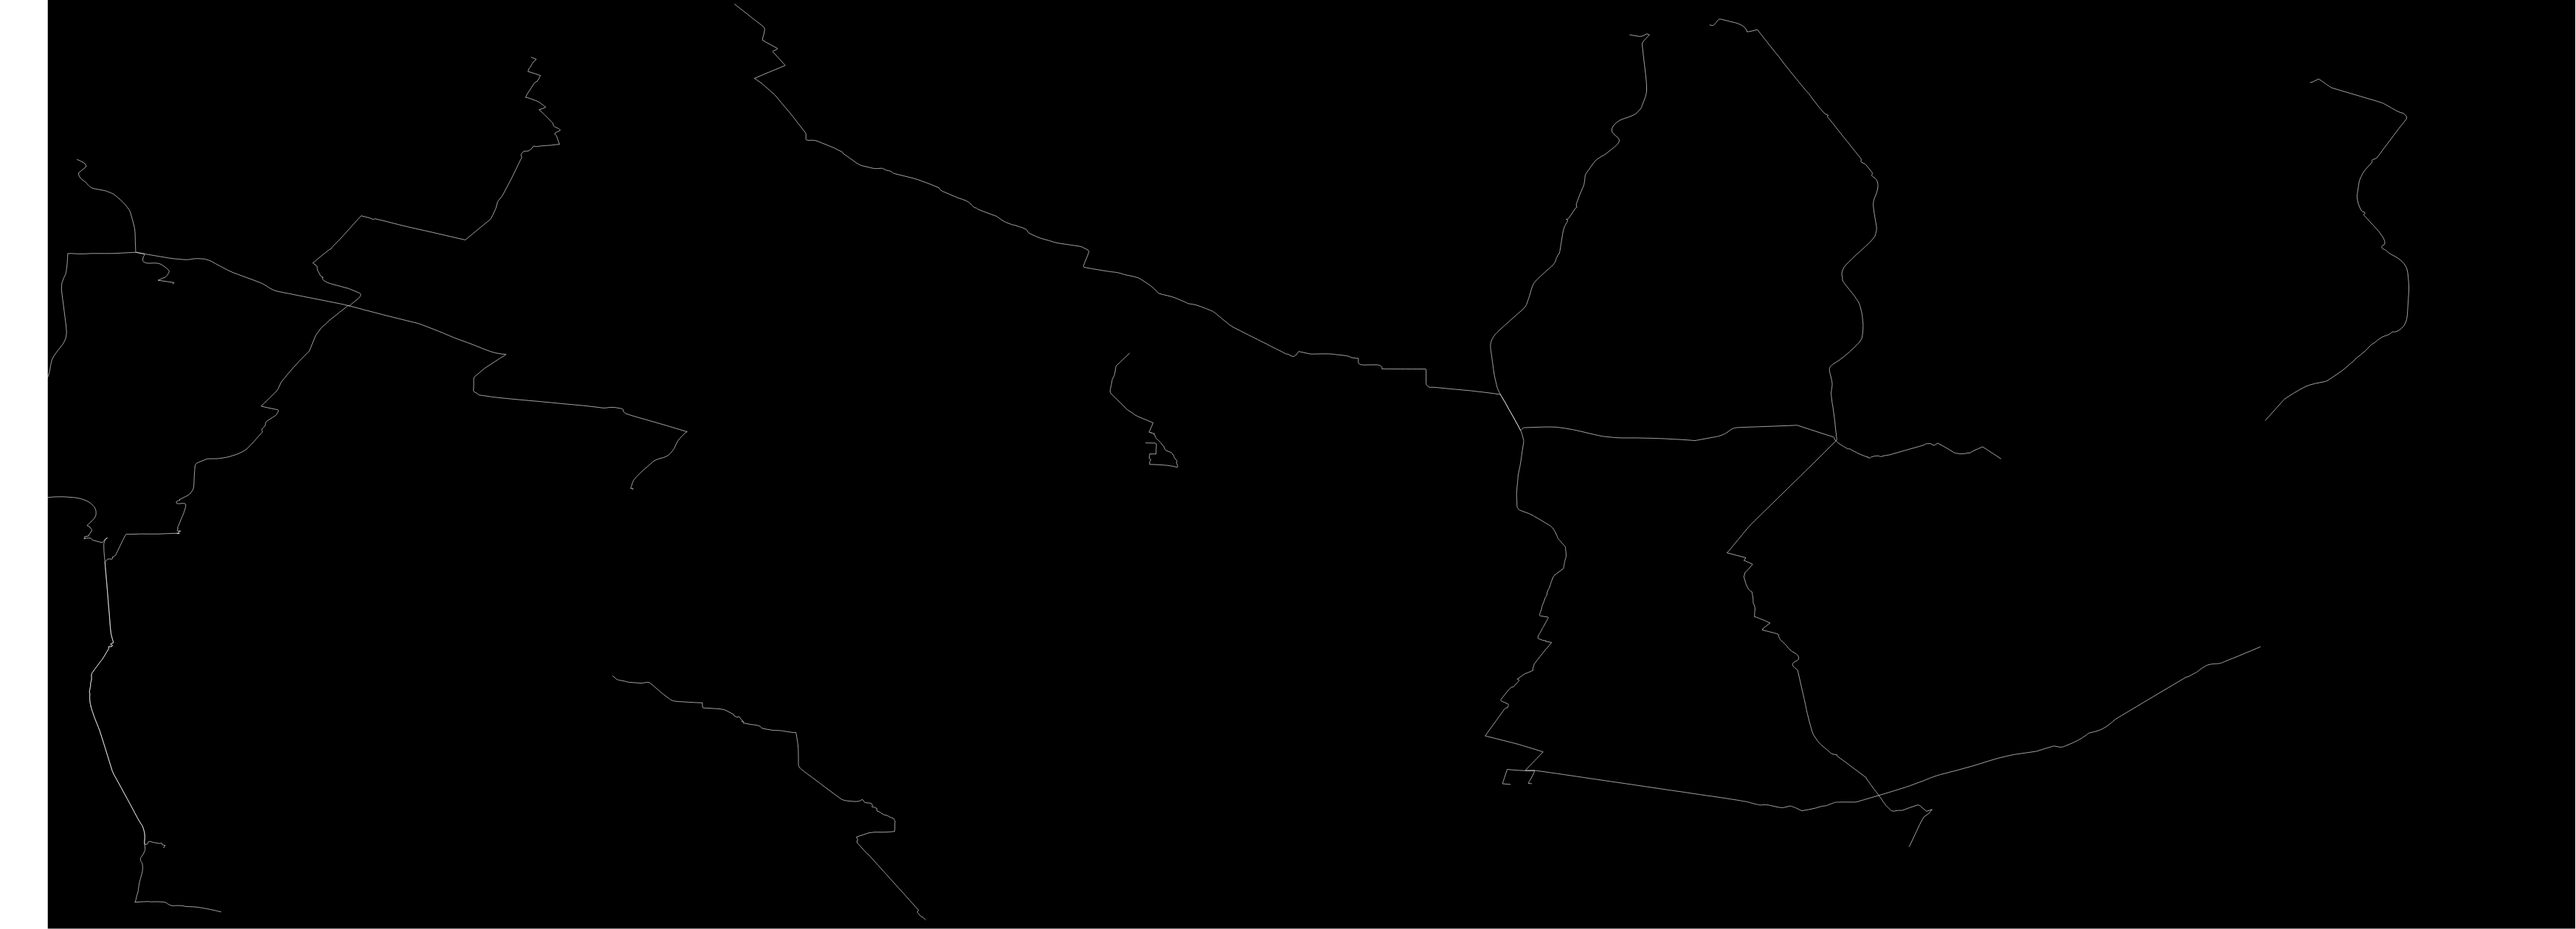
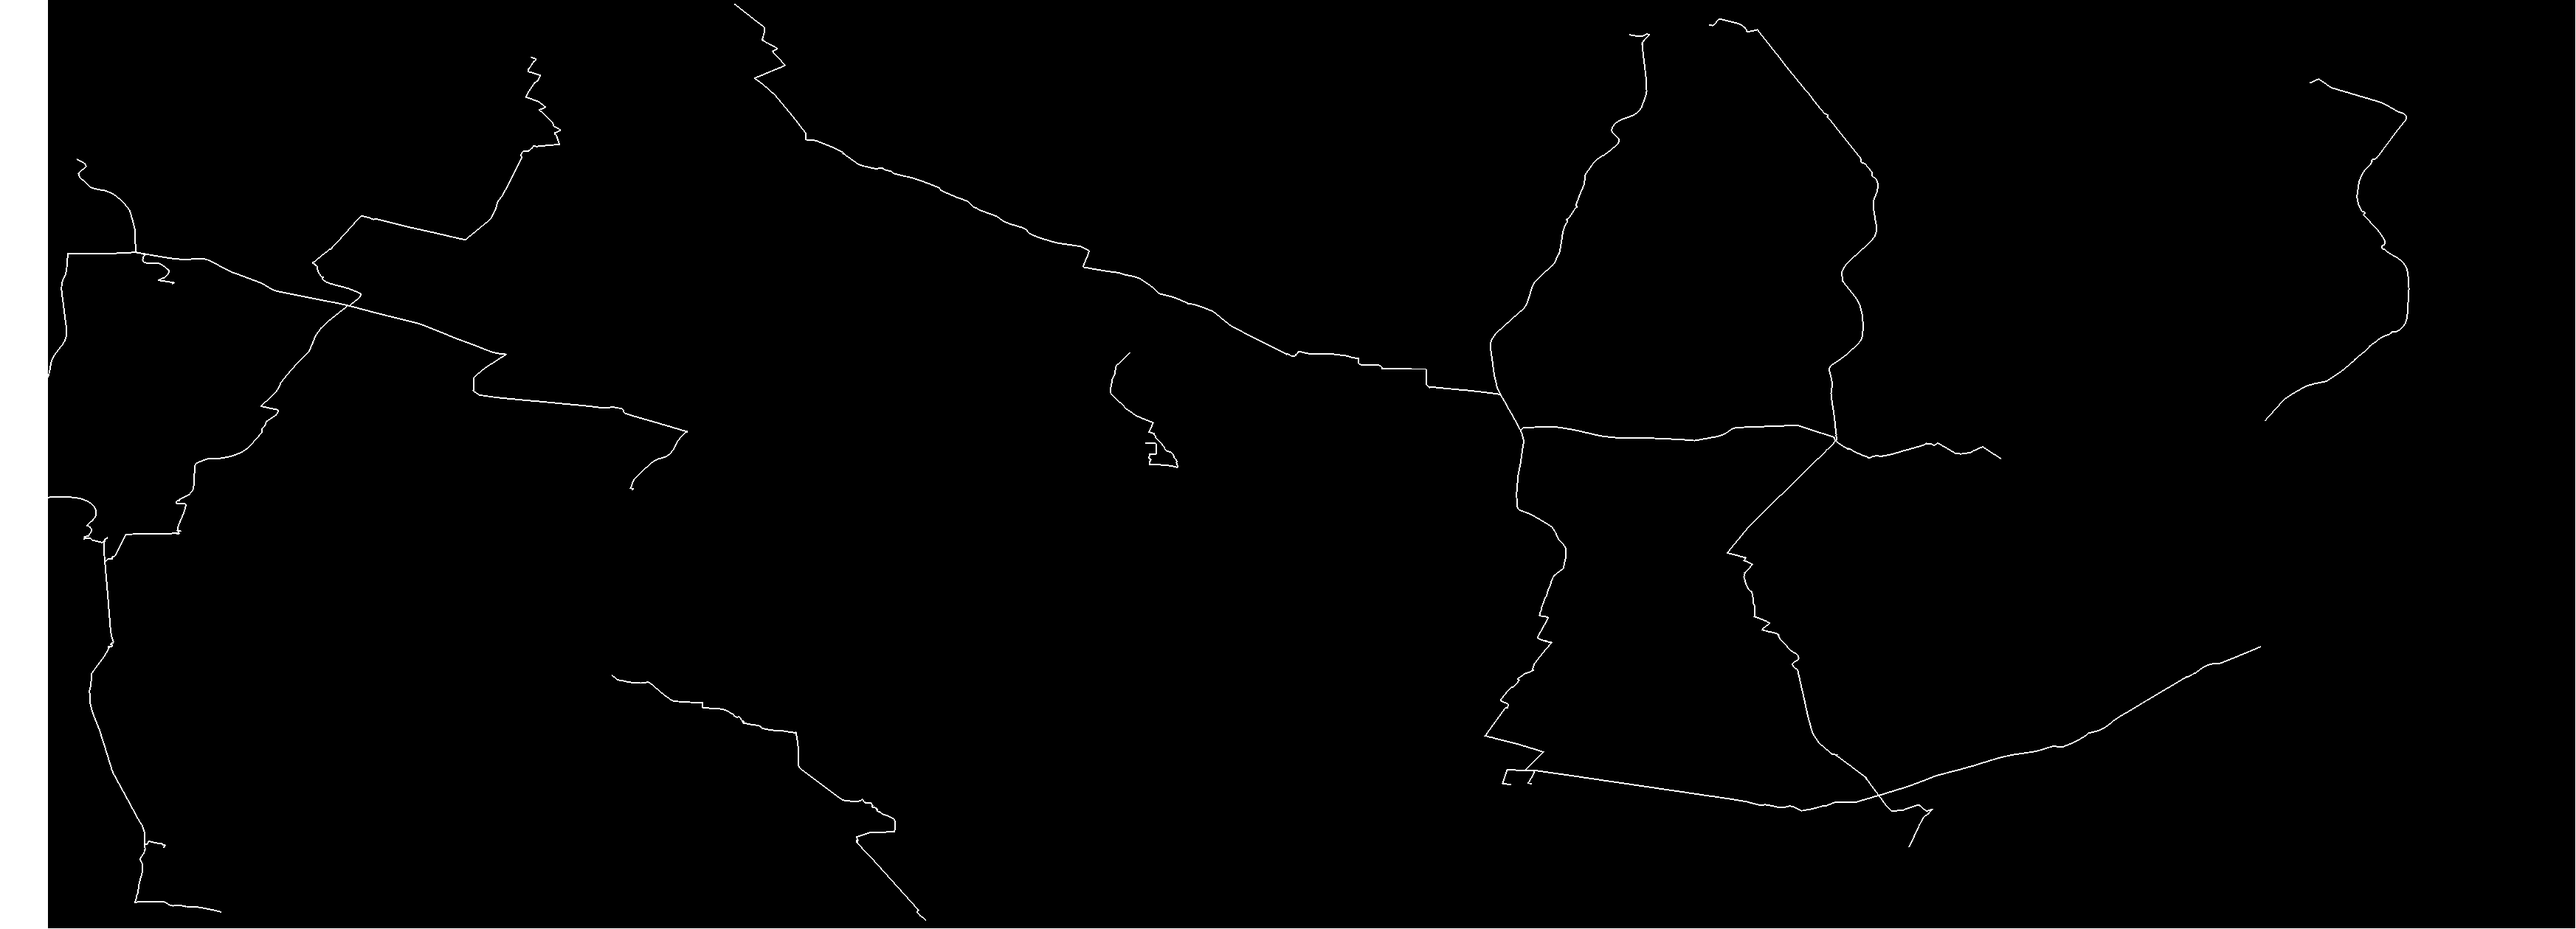
convert routes into pieces: find regions in image

diff --git a/apps/keks/backend/regions/src/bin/find_regions.rs b/apps/keks/backend/regions/src/bin/find_regions.rs
@@ -1,9 +1,10 @@
-use std::{fs::File, io::{BufReader, Cursor}, path::PathBuf};
+use std::{collections::{HashMap, HashSet}, fs::File, io::BufReader, path::PathBuf};
 
 use clap::{command, Parser};
 use geo::{BoundingRect, Geometry, GeometryCollection};
 use geozero::{geo_types::GeoWriter, geojson::GeoJsonReader, GeozeroDatasource};
-use image::{GrayImage, ImageReader};
+use image::{GrayImage, Luma, Rgba, RgbaImage};
+use imageproc::{definitions::Image, region_labelling::{connected_components, Connectivity}};
 
 /// find regions in an area
 #[derive(Parser, Debug)]
@@ -28,16 +29,40 @@ async fn main() -> Result<(), Box<dyn std::error::Error>> {
     let mut writer = GeoWriter::new();
     reader.process_geom(&mut writer)?;
 
-    let draw_stage_png = args.stage_template.to_str().unwrap().replace("STAGE_NAME", "draw");
 
     if let Geometry::GeometryCollection(geoms) = writer.take_geometry().unwrap() {
         println!("Found {} geometries", geoms.len());
 
-        let image = draw(&geoms)?;
-        image.save(draw_stage_png)?;
+        let draw_image = draw(&geoms)?;
+
+        let draw_stage_png = args.stage_template.to_str().unwrap().replace("STAGE_NAME", "draw");
+        draw_image.save(draw_stage_png)?;
+
+        let background_color = Luma([255u8]);
+        let labelled_image : Image<Luma<u32>> =
+            connected_components(&draw_image, Connectivity::Four, background_color);
+
+        let labelled_colored_image : RgbaImage = assign_random_colors(&labelled_image);
+
+        let labelled_stage_png = args.stage_template.to_str().unwrap().replace("STAGE_NAME", "labelled");
+        labelled_colored_image.save(labelled_stage_png)?;
     }
 
     Ok(())
+}
+
+fn assign_random_colors(labelled_image: &Image<Luma<u32>>) -> RgbaImage {
+    let unique_ids = labelled_image.pixels().map(|p| p[0]).collect::<HashSet<u32>>();
+    let mut color_map = HashMap::new();
+    for id in unique_ids {
+        let color = Rgba([rand::random(), rand::random(), rand::random(), 255]);
+        color_map.insert(id, color);
+    }
+    let image = RgbaImage::from_fn(labelled_image.width(), labelled_image.height(), |x, y| {
+        let label = labelled_image.get_pixel(x, y)[0];
+        *color_map.get(&label).unwrap()
+    });
+    image
 }
 
 fn draw(collection: &GeometryCollection) -> Result<GrayImage, Box<dyn std::error::Error>> {
@@ -68,10 +93,12 @@ fn draw(collection: &GeometryCollection) -> Result<GrayImage, Box<dyn std::error
     let transform = Transform::from_translate(offset_x, offset_y).post_scale(scale_x, scale_y);
 
     let mut black = Paint::default();
-    black.set_color_rgba8(0, 0, 0, 255);
+    black.set_color(Color::BLACK);
+    black.anti_alias = true;
 
     let mut white = Paint::default();
-    white.set_color_rgba8(255, 255, 255, 255);
+    white.set_color(Color::WHITE);
+    white.anti_alias = true;
 
     let mut stroke = Stroke::default();
     stroke.width = 0.0005 * width.min(height);
@@ -119,11 +146,16 @@ fn draw(collection: &GeometryCollection) -> Result<GrayImage, Box<dyn std::error
         }
     }
 
-    let png_bytes = pixmap.encode_png()?;
-    let mut reader = ImageReader::new(Cursor::new(png_bytes));
-    reader.set_format(image::ImageFormat::Png);
-    let decoded = reader.decode()?;
+    // apply threshold to get a binary image, where black is candidate regions and white is ignorable border
+    let image = GrayImage::from_fn(width_px, height_px, |x, y| {
+        let pixmap_color = pixmap.pixel(x, y).unwrap();
+        if pixmap_color == Color::BLACK.to_color_u8().premultiply() {
+            Luma([0u8])
+        } else {
+            Luma([255u8])
+        }
+    });
 
-    Ok(decoded.into_luma8())
+    Ok(image)
 }
 

diff --git a/apps/keks/TODO.md b/apps/keks/TODO.md
@@ -26,7 +26,7 @@
             * [ ] convert routes into pieces
                 * [x] convert into black/white Luma image
                 * [x] create a Justfile for repeatable recreation of everything
-                * [ ] find regions in image
+                * [x] find regions in image
                 * [ ] convert back into geojson
             * [ ] ...
     - [ ] layout:
